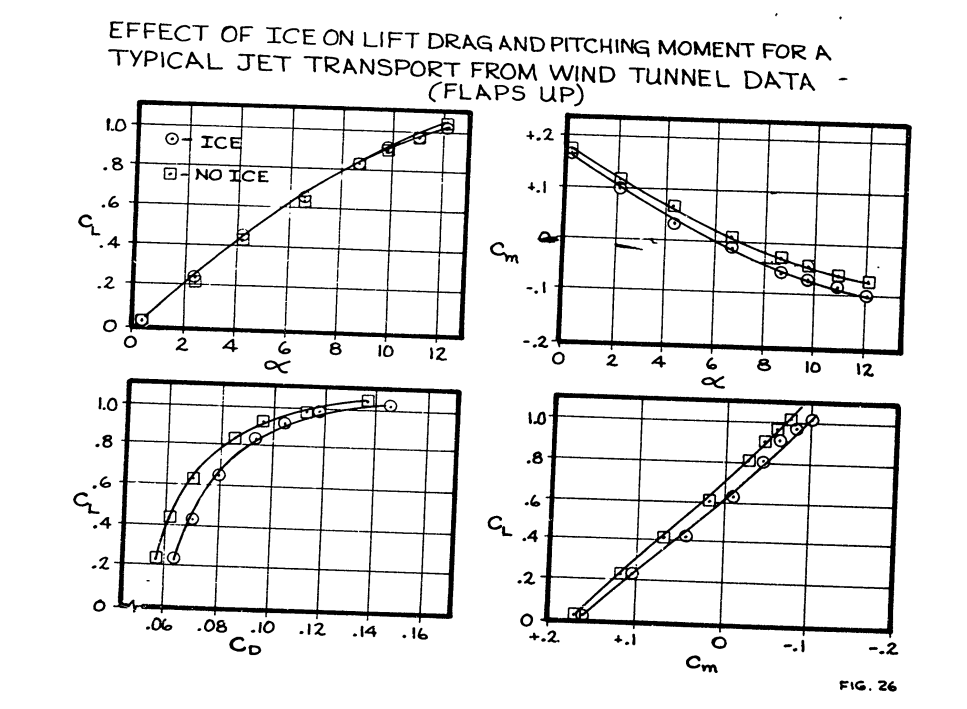
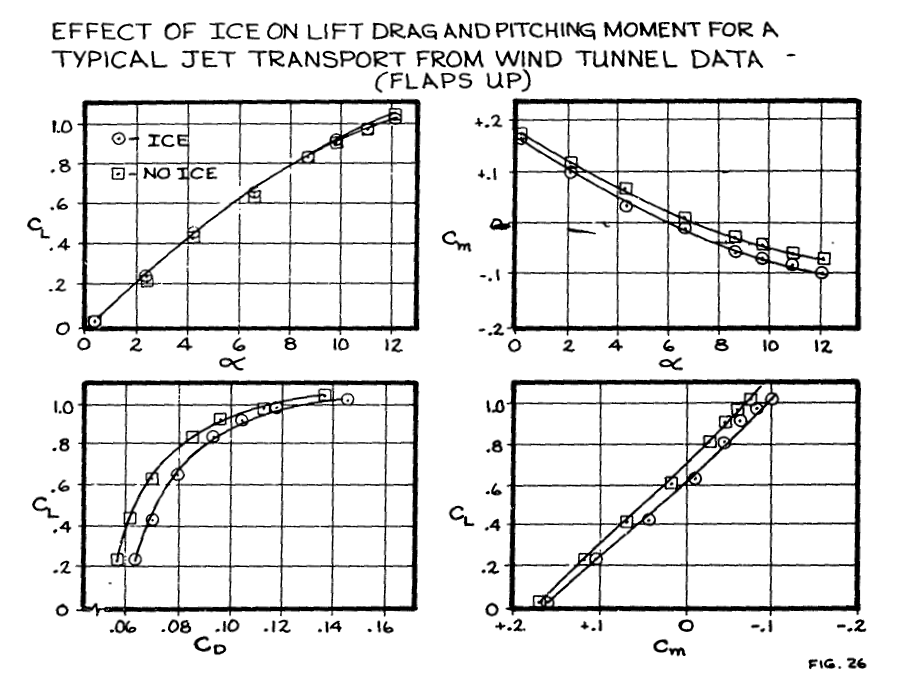
draft Analysis of Icing in Holding Patterns

Changed region(s): [[0.0311, 0.0303, 0.9644, 0.9986]]

diff --git a/docs/ice-shapes-and-their-effects.html b/docs/ice-shapes-and-their-effects.html
@@ -38,8 +38,8 @@
                 Published: Wed 27 July 2022
         </abbr>
 		<br />
-        <abbr class="modified" title="2026-07-27T17:42:13.608926-07:00">
-                Updated: Mon 27 July 2026
+        <abbr class="modified" title="2026-08-14T07:40:21.327124-07:00">
+                Updated: Fri 14 August 2026
         </abbr>
 <!---->
         <!---->
@@ -115,6 +115,11 @@ from 204 to 163 miles per hour." src="images/naca-tn-1598/Figure_14_naca_tn_1598
 <blockquote>
 <p>Estimating which icing conditions in Appendix C can result in the highest drag.  </p>
 </blockquote>
+<!--
+### [Analysis of Icing in Holding Patterns]({filename}holding_patterns.md)  
+>Using AC 20-73A for the analysis of icing in holding patterns  
+-->
+
 <h2>Related</h2>
 <p>The next thread in the series is the <a href="/water-drop-evaporation.html">Water Drop Evaporation Thread</a>.  </p>
 <h2>Notes</h2>

diff --git a/docs/author/donald-cook.html b/docs/author/donald-cook.html
@@ -7211,8 +7211,8 @@ and aircraft components for system certification would be to conduct …</p></bl
                 Published: Wed 27 July 2022
         </abbr>
 		<br />
-        <abbr class="modified" title="2026-07-27T17:42:13.608926-07:00">
-                Updated: Mon 27 July 2026
+        <abbr class="modified" title="2026-08-14T07:40:21.327124-07:00">
+                Updated: Fri 14 August 2026
         </abbr>
 <!---->
         <!---->

diff --git a/docs/blog.html b/docs/blog.html
@@ -7211,8 +7211,8 @@ and aircraft components for system certification would be to conduct …</p></bl
                 Published: Wed 27 July 2022
         </abbr>
 		<br />
-        <abbr class="modified" title="2026-07-27T17:42:13.608926-07:00">
-                Updated: Mon 27 July 2026
+        <abbr class="modified" title="2026-08-14T07:40:21.327124-07:00">
+                Updated: Fri 14 August 2026
         </abbr>
 <!---->
         <!---->

diff --git a/docs/category/naca.html b/docs/category/naca.html
@@ -3028,8 +3028,8 @@ values for the desired and acceptable accuracy of measurement for …</p></block
                 Published: Wed 27 July 2022
         </abbr>
 		<br />
-        <abbr class="modified" title="2026-07-27T17:42:13.608926-07:00">
-                Updated: Mon 27 July 2026
+        <abbr class="modified" title="2026-08-14T07:40:21.327124-07:00">
+                Updated: Fri 14 August 2026
         </abbr>
 <!---->
         <!---->

diff --git a/docs/tag/ice-shapes.html b/docs/tag/ice-shapes.html
@@ -958,8 +958,8 @@ participate in …</p></blockquote>
                 Published: Wed 27 July 2022
         </abbr>
 		<br />
-        <abbr class="modified" title="2026-07-27T17:42:13.608926-07:00">
-                Updated: Mon 27 July 2026
+        <abbr class="modified" title="2026-08-14T07:40:21.327124-07:00">
+                Updated: Fri 14 August 2026
         </abbr>
 <!---->
         <!---->

diff --git a/docs/drafts/analysis-of-icing-in-holding-patterns.html b/docs/drafts/analysis-of-icing-in-holding-patterns.html
@@ -38,8 +38,8 @@
                 Published: Thu 13 August 2026
         </abbr>
 		<br />
-        <abbr class="modified" title="2026-08-13T17:12:46.432896-07:00">
-                Updated: Thu 13 August 2026
+        <abbr class="modified" title="2026-08-14T07:47:37.383193-07:00">
+                Updated: Fri 14 August 2026
         </abbr>
 <!---->
         <!---->

diff --git a/content/ice_shapes_thread.md b/content/ice_shapes_thread.md
@@ -63,6 +63,10 @@ There are additional publications on ice shapes for deicing systems and propelle
 
 ### [Estimating Icing Conditions with Highest Drag]({filename}conditions_cd.md)  
 >Estimating which icing conditions in Appendix C can result in the highest drag.  
+<!--
+### [Analysis of Icing in Holding Patterns]({filename}holding_patterns.md)  
+>Using AC 20-73A for the analysis of icing in holding patterns  
+-->
 
 ## Related  
 

diff --git a/content/holding_patterns.md b/content/holding_patterns.md
@@ -1,5 +1,5 @@
 status: draft  
-title: Analysis of Icing in Holding Patterns  
+title: Analysis of Icing in Holding Patterns    
 tags: AC20-73A, Appendix C  
 date: 2026-08-13 12:00  
 
